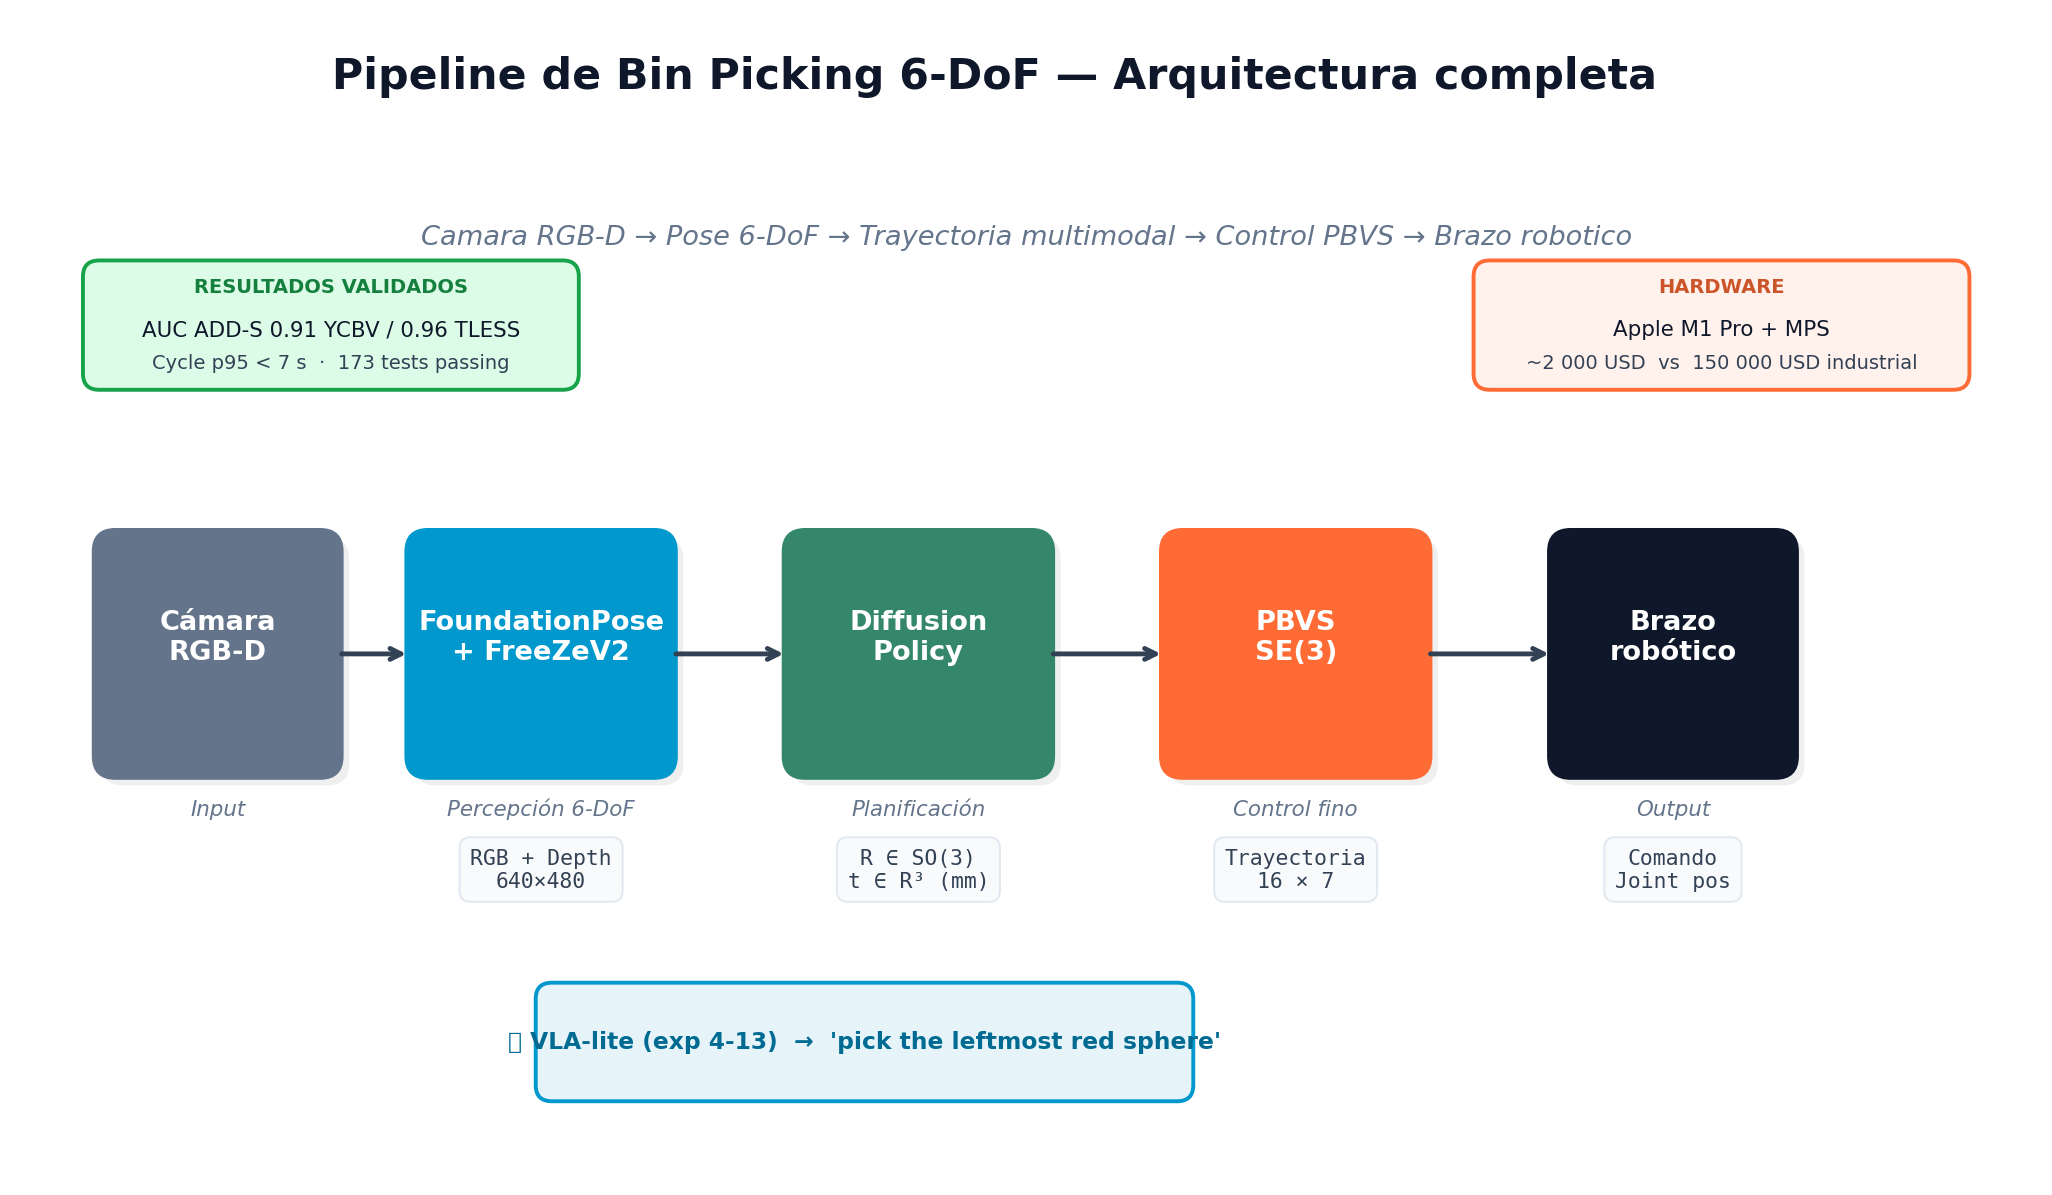
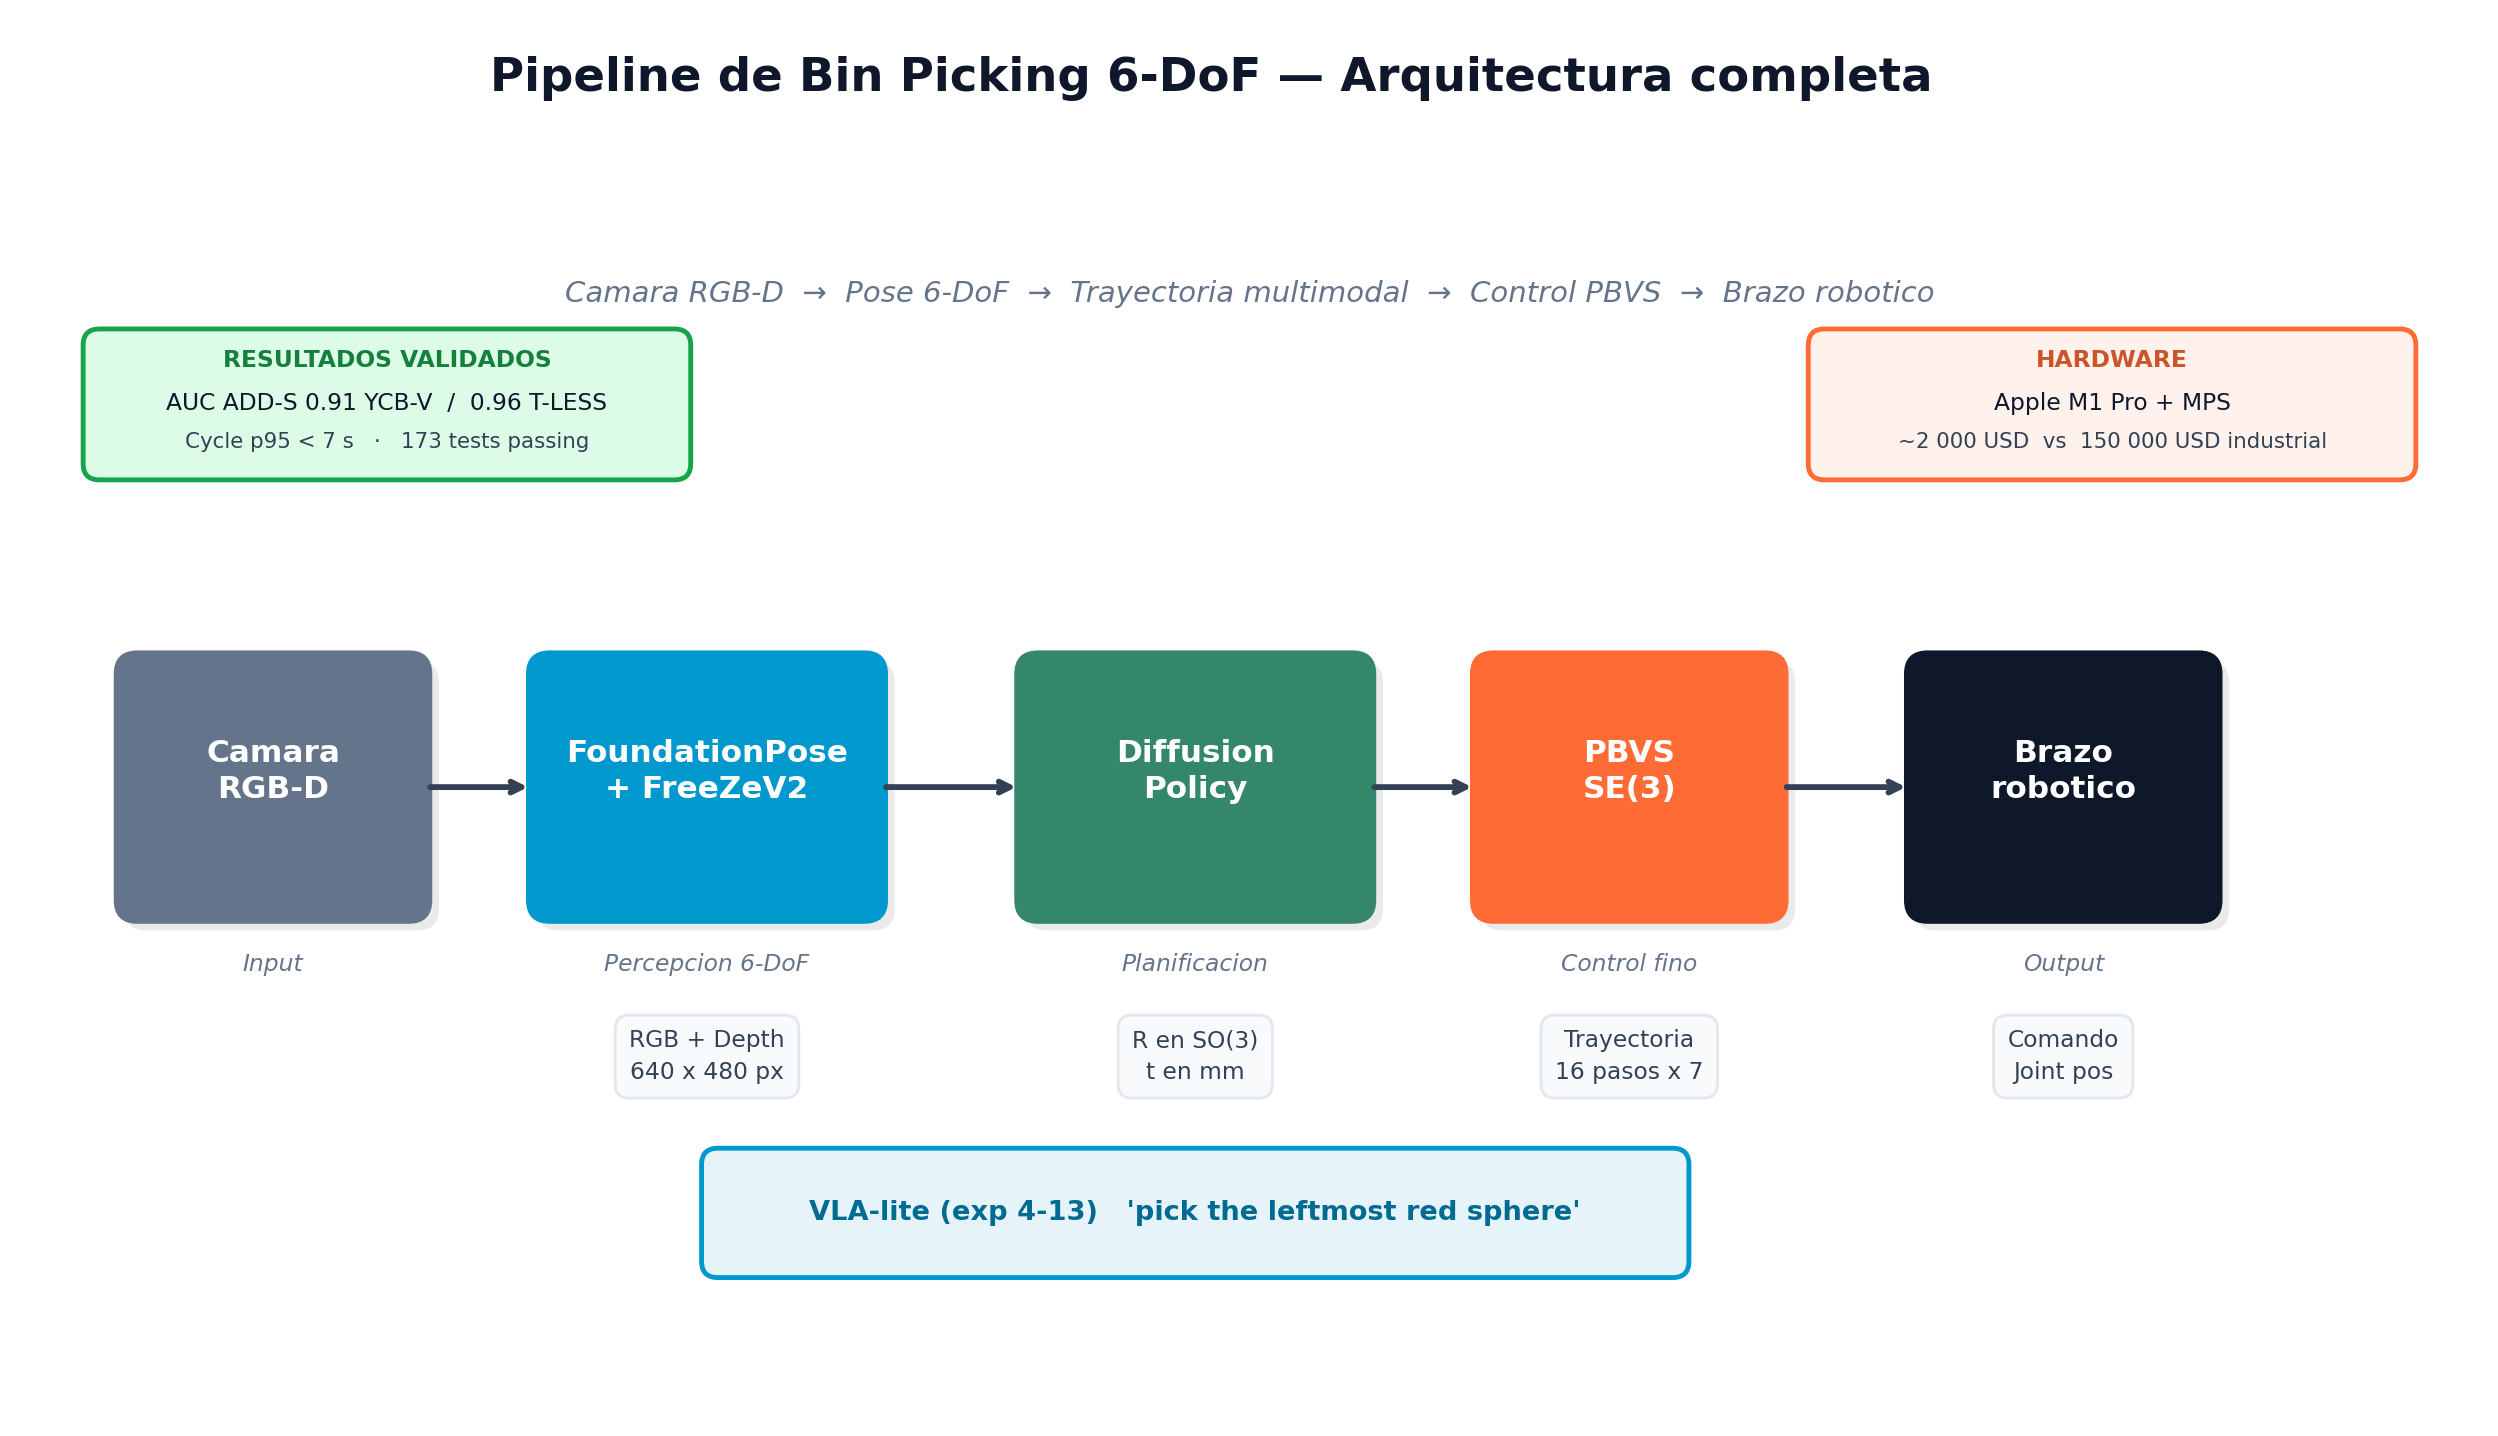
fix(diseno): figuras hero — textos sin cortar, mejor espaciado
Revision visual detallada de las 4 figuras hero tras detectar textos
cortados/comprimidos en pipeline architecture y roadmap timeline.

Cambios:

01_pipeline_architecture.png:
- figsize 18x9 -> 22x11 (mas espacio horizontal y vertical)
- Cajas mas anchas: w=2.2-2.4 -> 2.8-3.2 ("FoundationPose + FreeZeV2"
  ahora cabe sin compresion)
- Outputs intermedios (debajo del pipeline) con padding 0.5 -> 0.6,
  fontsize 11 -> 12, linespacing 1.5
- Boxes RESULTADOS/HARDWARE arriba con altura 1.1 -> 1.3 y ancho 4.5 -> 5.5
- Capa VLA-lite (caja inferior) ahora 9.0 unidades en lugar de 6.0
- Sin emoji ni caracteres especiales que podian no renderizar
- fontsize de labels 14 -> 16 con linespacing 1.3

03_roadmap_timeline.png:
- figsize 18x10 -> 22x12
- Cards mas anchos: 2.0 -> 2.4 ("Certif. CE / ISO" ahora cabe)
- Cards mas altos: 1.6 -> 2.3 (3 lineas: tiempo, titulo, coste con margen)
- Linea horizontal mas baja (line_y=4.5 -> 6.0) deja mas espacio arriba
- Cards alternados con mas separacion vertical (y_box 6.0/3.0 -> 8.0/4.0)
- Textos abreviados sin perder informacion (e.g. "Robot fisico" en lugar
  de la frase completa)
- Footer mas alto (1.0 -> 1.5) con 2 lineas de texto separadas

02_exploraciones_dashboard.png:
- Banda superior del card mas alta: 0.4 -> 0.55 (titulos no se cortan)
- Banda con margen inferior 0.05 (separacion del numero grande)
- Metrica grande mas grande: 26 -> 28 px
- Subtitulo con margen aumentado al borde inferior del card
[…]

diff --git a/scripts/make_hero_figures.py b/scripts/make_hero_figures.py
@@ -33,30 +33,31 @@ OUT.mkdir(parents=True, exist_ok=True)
 # ============================================================================
 def fig01_pipeline_architecture():
     apply_style("presentation")
-    fig, ax = plt.subplots(figsize=(18, 9))
-    ax.set_xlim(0, 18); ax.set_ylim(0, 9)
-    ax.set_aspect("equal")
+    # Lienzo mas grande para que quepa todo con margen
+    fig, ax = plt.subplots(figsize=(22, 11))
+    ax.set_xlim(0, 22); ax.set_ylim(0, 11)
     ax.axis("off")
 
-    # Title
     fig.suptitle("Pipeline de Bin Picking 6-DoF — Arquitectura completa",
-                  fontsize=22, fontweight="bold", y=0.97, color=COLORS["ink"])
-    ax.text(9, 8.3, "Camara RGB-D → Pose 6-DoF → Trayectoria multimodal → Control PBVS → Brazo robotico",
-              ha="center", fontsize=14, style="italic", color=COLORS["muted"])
+                  fontsize=24, fontweight="bold", y=0.97, color=COLORS["ink"])
+    ax.text(11, 10.0,
+              "Camara RGB-D  →  Pose 6-DoF  →  Trayectoria multimodal  →  Control PBVS  →  Brazo robotico",
+              ha="center", fontsize=15, style="italic", color=COLORS["muted"])
 
-    # Stages: (x_center, y_center, w, h, label, color, sublabel)
+    # Stages mas anchas (text-friendly): w=3.0 vs 2.4
+    pipeline_y = 5.5
     stages = [
-        (1.5, 4.5, 2.2, 2.2, "Cámara\nRGB-D", COLORS["muted"], "Input"),
-        (4.5, 4.5, 2.4, 2.2, "FoundationPose\n+ FreeZeV2", COLORS["primary"], "Percepción 6-DoF"),
-        (8, 4.5, 2.4, 2.2, "Diffusion\nPolicy", COLORS["cat_2"], "Planificación"),
-        (11.5, 4.5, 2.4, 2.2, "PBVS\nSE(3)", COLORS["accent"], "Control fino"),
-        (15, 4.5, 2.2, 2.2, "Brazo\nrobótico", COLORS["ink"], "Output"),
+        (2.0,  pipeline_y, 2.8, 2.4, "Camara\nRGB-D",          COLORS["muted"],   "Input"),
+        (6.0,  pipeline_y, 3.2, 2.4, "FoundationPose\n+ FreeZeV2", COLORS["primary"], "Percepcion 6-DoF"),
+        (10.5, pipeline_y, 3.2, 2.4, "Diffusion\nPolicy",      COLORS["cat_2"],   "Planificacion"),
+        (14.5, pipeline_y, 2.8, 2.4, "PBVS\nSE(3)",            COLORS["accent"],  "Control fino"),
+        (18.5, pipeline_y, 2.8, 2.4, "Brazo\nrobotico",        COLORS["ink"],     "Output"),
     ]
     for (cx, cy, w, h, label, color, sublabel) in stages:
-        # Caja con sombra
-        shadow = FancyBboxPatch((cx - w/2 + 0.07, cy - h/2 - 0.07), w, h,
+        # Sombra
+        shadow = FancyBboxPatch((cx - w/2 + 0.08, cy - h/2 - 0.08), w, h,
                                   boxstyle="round,pad=0.05,rounding_size=0.2",
-                                  facecolor="#00000010", edgecolor="none", zorder=1)
+                                  facecolor="#00000015", edgecolor="none", zorder=1)
         ax.add_patch(shadow)
         # Caja principal
         box = FancyBboxPatch((cx - w/2, cy - h/2), w, h,
@@ -64,67 +65,71 @@ def fig01_pipeline_architecture():
                                 facecolor=color, edgecolor=color, linewidth=2, zorder=2)
         ax.add_patch(box)
         ax.text(cx, cy + 0.15, label, ha="center", va="center",
-                  fontsize=14, fontweight="bold", color="white", zorder=3)
-        # Etiqueta inferior
-        ax.text(cx, cy - h/2 - 0.4, sublabel, ha="center", fontsize=11,
+                  fontsize=16, fontweight="bold", color="white", zorder=3,
+                  linespacing=1.3)
+        # Etiqueta inferior (mas espacio)
+        ax.text(cx, cy - h/2 - 0.5, sublabel, ha="center", fontsize=12,
                   color=COLORS["muted"], style="italic")
 
-    # Flechas
+    # Flechas entre etapas (mas largas porque hay mas espacio horizontal)
     for i in range(len(stages) - 1):
         x1 = stages[i][0] + stages[i][2]/2
         x2 = stages[i+1][0] - stages[i+1][2]/2
-        ax.annotate("", xy=(x2 - 0.05, 4.5), xytext=(x1 + 0.05, 4.5),
-                       arrowprops=dict(arrowstyle="->", lw=2.5,
+        ax.annotate("", xy=(x2 - 0.05, pipeline_y), xytext=(x1 + 0.05, pipeline_y),
+                       arrowprops=dict(arrowstyle="->", lw=3,
                                             color=COLORS["ink_soft"], shrinkA=0, shrinkB=0))
 
-    # Datos abajo: salida de cada etapa
+    # Outputs intermedios (debajo del pipeline, con mas espacio)
+    outputs_y = 3.0
     outputs = [
-        (4.5, 2.5, "RGB + Depth\n640×480"),
-        (8, 2.5, "R ∈ SO(3)\nt ∈ R³ (mm)"),
-        (11.5, 2.5, "Trayectoria\n16 × 7"),
-        (15, 2.5, "Comando\nJoint pos"),
+        (6.0,  "RGB + Depth\n640 x 480 px"),
+        (10.5, "R en SO(3)\nt en mm"),
+        (14.5, "Trayectoria\n16 pasos x 7"),
+        (18.5, "Comando\nJoint pos"),
     ]
-    for (cx, cy, label) in outputs:
-        ax.text(cx, cy, label, ha="center", va="center", fontsize=11,
-                  color=COLORS["ink_soft"], family="DejaVu Sans Mono",
-                  bbox=dict(boxstyle="round,pad=0.5", facecolor=COLORS["surface"],
-                              edgecolor=COLORS["border"], linewidth=1))
+    for (cx, label) in outputs:
+        ax.text(cx, outputs_y, label, ha="center", va="center", fontsize=12,
+                  color=COLORS["ink_soft"], linespacing=1.5,
+                  family="DejaVu Sans",
+                  bbox=dict(boxstyle="round,pad=0.6", facecolor=COLORS["surface"],
+                              edgecolor=COLORS["border"], linewidth=1.5))
 
     # Capa VLA-lite añadida (exploraciones)
-    vla_box = FancyBboxPatch((4.5, 0.4), 6, 1.0,
+    vla_box = FancyBboxPatch((6.0, 1.0), 9.0, 1.1,
                               boxstyle="round,pad=0.05,rounding_size=0.15",
                               facecolor=COLORS["primary_light"],
-                              edgecolor=COLORS["primary"], linewidth=2, zorder=1)
+                              edgecolor=COLORS["primary"], linewidth=2.5, zorder=1)
     ax.add_patch(vla_box)
-    ax.text(7.5, 0.9, "🗣 VLA-lite (exp 4-13)  →  'pick the leftmost red sphere'",
-              ha="center", va="center", fontsize=12, fontweight="bold",
+    ax.text(10.5, 1.55,
+              "VLA-lite (exp 4-13)   'pick the leftmost red sphere'",
+              ha="center", va="center", fontsize=14, fontweight="bold",
               color=COLORS["primary_dark"])
 
-    # Metricas globales arriba derecha
-    metrics_box = FancyBboxPatch((0.3, 7.0), 4.5, 1.1,
+    # Metricas globales — arriba izquierda (mas ancho, mas legible)
+    metrics_box = FancyBboxPatch((0.3, 8.4), 5.5, 1.3,
                                    boxstyle="round,pad=0.05,rounding_size=0.15",
                                    facecolor=COLORS["success_light"],
-                                   edgecolor=COLORS["success"], linewidth=2, zorder=1)
+                                   edgecolor=COLORS["success"], linewidth=2.5, zorder=1)
     ax.add_patch(metrics_box)
-    ax.text(2.55, 7.85, "RESULTADOS VALIDADOS", ha="center", fontsize=10,
+    ax.text(3.05, 9.40, "RESULTADOS VALIDADOS", ha="center", fontsize=12,
               fontweight="bold", color=COLORS["success_dark"])
-    ax.text(2.55, 7.45, "AUC ADD-S 0.91 YCBV / 0.96 TLESS",
-              ha="center", fontsize=11, color=COLORS["ink"])
-    ax.text(2.55, 7.15, "Cycle p95 < 7 s  ·  173 tests passing",
-              ha="center", fontsize=10, color=COLORS["ink_soft"])
+    ax.text(3.05, 9.00, "AUC ADD-S 0.91 YCB-V  /  0.96 T-LESS",
+              ha="center", fontsize=12, color=COLORS["ink"])
+    ax.text(3.05, 8.65, "Cycle p95 < 7 s   ·   173 tests passing",
+              ha="center", fontsize=11, color=COLORS["ink_soft"])
 
-    # Hardware abajo derecha
-    hw_box = FancyBboxPatch((13.2, 7.0), 4.5, 1.1,
+    # Hardware — arriba derecha
+    hw_box = FancyBboxPatch((16.2, 8.4), 5.5, 1.3,
                               boxstyle="round,pad=0.05,rounding_size=0.15",
                               facecolor=COLORS["accent_light"],
-                              edgecolor=COLORS["accent"], linewidth=2, zorder=1)
+                              edgecolor=COLORS["accent"], linewidth=2.5, zorder=1)
     ax.add_patch(hw_box)
-    ax.text(15.45, 7.85, "HARDWARE", ha="center", fontsize=10,
+    ax.text(18.95, 9.40, "HARDWARE", ha="center", fontsize=12,
               fontweight="bold", color=COLORS["accent_dark"])
-    ax.text(15.45, 7.45, "Apple M1 Pro + MPS",
-              ha="center", fontsize=11, color=COLORS["ink"])
-    ax.text(15.45, 7.15, "~2 000 USD  vs  150 000 USD industrial",
-              ha="center", fontsize=10, color=COLORS["ink_soft"])
+    ax.text(18.95, 9.00, "Apple M1 Pro + MPS", ha="center", fontsize=12,
+              color=COLORS["ink"])
+    ax.text(18.95, 8.65, "~2 000 USD  vs  150 000 USD industrial",
+              ha="center", fontsize=11, color=COLORS["ink_soft"])
 
     fig.savefig(OUT / "01_pipeline_architecture.png", dpi=140, bbox_inches="tight",
                  facecolor="white", pad_inches=0.4)
@@ -202,18 +207,20 @@ def fig02_exploraciones_dashboard():
                                 boxstyle="round,pad=0.05,rounding_size=0.2",
                                 facecolor="white", edgecolor=color, linewidth=2.5, zorder=2)
         ax.add_patch(card)
-        # Banda superior coloreada
-        band = patches.Rectangle((x + 0.08, y - 0.5), box_w - 0.16, 0.4,
+        # Banda superior coloreada (mas alta para que el texto respire)
+        band_h = 0.55
+        band = patches.Rectangle((x + 0.08, y - band_h - 0.05), box_w - 0.16, band_h,
                                     facecolor=color, edgecolor="none", zorder=3)
         ax.add_patch(band)
-        ax.text(x + box_w/2, y - 0.3, title, ha="center", va="center",
-                  fontsize=11, fontweight="bold", color="white", zorder=4)
-        # Metrica grande
-        ax.text(x + box_w/2, y - 1.3, metric, ha="center", va="center",
-                  fontsize=26, fontweight="bold", color=dark, zorder=4)
-        # Subtitulo
-        ax.text(x + box_w/2, y - 2.0, sub, ha="center", va="center",
-                  fontsize=11, color=COLORS["muted"], style="italic", zorder=4)
+        ax.text(x + box_w/2, y - band_h/2 - 0.05, title, ha="center", va="center",
+                  fontsize=12, fontweight="bold", color="white", zorder=4)
+        # Metrica grande (centrada en el resto de la card)
+        ax.text(x + box_w/2, y - band_h - (box_h - band_h)/2 + 0.15, metric,
+                  ha="center", va="center",
+                  fontsize=28, fontweight="bold", color=dark, zorder=4)
+        # Subtitulo (parte baja del card)
+        ax.text(x + box_w/2, y - box_h + 0.30, sub, ha="center", va="center",
+                  fontsize=12, color=COLORS["muted"], style="italic", zorder=4)
 
     # Footer resumen
     footer_box = FancyBboxPatch((0.5, 0.4), 19.0, 1.5,
@@ -238,85 +245,88 @@ def fig02_exploraciones_dashboard():
 def fig03_roadmap_timeline():
     apply_style("presentation")
 
+    # Texto mas corto y compacto para que quepa
     stages = [
-        ("Hoy", "TFM + 13 exploraciones validadas en simulación",
-          "✓ Cerrado", COLORS["success"]),
-        ("3-6 m", "Etapa 1: Robot físico (cobot UR/Kinova)",
-          "~10-20 k EUR", COLORS["primary"]),
-        ("+2-3 m", "Etapa 2: Sim-to-real domain randomization",
-          "~2 k EUR (cloud)", COLORS["cat_2"]),
-        ("+2-4 m", "Etapa 3: Aprendizaje a partir de demos",
-          "~0 EUR", COLORS["cat_7"]),
-        ("+3 m", "Etapa 4: MVP producto desplegable",
-          "~50 k EUR", COLORS["accent"]),
-        ("+6 m", "Etapa 5: Planta piloto con cliente",
-          "~50 k EUR", COLORS["warning"]),
-        ("+6 m", "Etapa 6: Certificación CE / ISO 15066",
-          "~30 k EUR", COLORS["cat_6"]),
-        ("~2 años", "Etapa 7: Spin-off comercial",
-          "Total ~200 k EUR", COLORS["cat_4"]),
+        ("Hoy",     "TFM + 13 exploraciones",          "Cerrado en simulacion",  COLORS["success"]),
+        ("3-6 m",   "Etapa 1\nRobot fisico",            "~10-20 k EUR",            COLORS["primary"]),
+        ("+2-3 m",  "Etapa 2\nSim-to-real",             "~2 k EUR (cloud)",        COLORS["cat_2"]),
+        ("+2-4 m",  "Etapa 3\nDemos humanas",           "~0 EUR (trabajo)",        COLORS["cat_7"]),
+        ("+3 m",    "Etapa 4\nMVP producto",            "~50 k EUR",               COLORS["accent"]),
+        ("+6 m",    "Etapa 5\nPlanta piloto",           "~50 k EUR",               COLORS["warning"]),
+        ("+6 m",    "Etapa 6\nCertif. CE / ISO",        "~30 k EUR",               COLORS["cat_6"]),
+        ("~2 anos", "Etapa 7\nSpin-off SaaS",           "Total ~200 k EUR",        COLORS["cat_4"]),
     ]
 
-    fig, ax = plt.subplots(figsize=(18, 10))
-    ax.set_xlim(0, 18); ax.set_ylim(0, 10)
+    # Layout vertical mas amplio para evitar solapamientos
+    fig, ax = plt.subplots(figsize=(22, 12))
+    ax.set_xlim(0, 22); ax.set_ylim(0, 12)
     ax.axis("off")
 
-    fig.suptitle("Roadmap post-TFM — De simulación a producto comercial",
-                  fontsize=22, fontweight="bold", y=0.97, color=COLORS["ink"])
-    ax.text(9, 8.8, "Etapa 0 cerrada en simulación. Etapas 1-7 requieren hardware físico, financiación y certificación.",
-              ha="center", fontsize=13, style="italic", color=COLORS["muted"])
+    fig.suptitle("Roadmap post-TFM — De simulacion a producto comercial",
+                  fontsize=24, fontweight="bold", y=0.97, color=COLORS["ink"])
+    ax.text(11, 10.7,
+              "Etapa 0 cerrada en simulacion. Etapas 1-7 requieren hardware, financiacion y certificacion.",
+              ha="center", fontsize=14, style="italic", color=COLORS["muted"])
 
-    # Linea horizontal del timeline
-    ax.plot([1, 17], [4.5, 4.5], color=COLORS["border"], linewidth=4, zorder=1)
+    # Linea horizontal del timeline (mas baja para dejar espacio)
+    line_y = 6.0
+    ax.plot([1.5, 20.5], [line_y, line_y], color=COLORS["border"], linewidth=4, zorder=1)
 
     n = len(stages)
-    x_positions = np.linspace(1.2, 16.8, n)
+    x_positions = np.linspace(2.0, 20.0, n)
+    card_w = 2.4   # mas ancho para que quepa el texto
+    card_h = 2.3   # mas alto
 
     for i, ((time, title, cost, color), x) in enumerate(zip(stages, x_positions)):
-        y_box = 6.0 if i % 2 == 0 else 3.0
-        y_box_h = 1.6
+        # Alternar arriba/abajo con MAS separacion vertical
+        y_box = 8.0 if i % 2 == 0 else 4.0
         # Circulo en linea
-        circle = patches.Circle((x, 4.5), 0.28, facecolor=color,
-                                  edgecolor="white", linewidth=3, zorder=3)
+        circle = patches.Circle((x, line_y), 0.32, facecolor=color,
+                                   edgecolor="white", linewidth=3, zorder=3)
         ax.add_patch(circle)
-        ax.text(x, 4.5, str(i), ha="center", va="center",
-                  fontsize=14, fontweight="bold", color="white", zorder=4)
-        # Linea de conexion
+        ax.text(x, line_y, str(i), ha="center", va="center",
+                  fontsize=15, fontweight="bold", color="white", zorder=4)
+        # Linea de conexion al card
         if i % 2 == 0:
-            ax.plot([x, x], [4.78, y_box - y_box_h/2 - 0.05],
+            ax.plot([x, x], [line_y + 0.34, y_box - card_h/2 - 0.05],
                       color=color, linewidth=2, linestyle="--", alpha=0.6)
         else:
-            ax.plot([x, x], [4.22, y_box + y_box_h/2 + 0.05],
+            ax.plot([x, x], [line_y - 0.34, y_box + card_h/2 + 0.05],
                       color=color, linewidth=2, linestyle="--", alpha=0.6)
-        # Caja de info
-        card = FancyBboxPatch((x - 1.0, y_box - y_box_h/2), 2.0, y_box_h,
+        # Card
+        card = FancyBboxPatch((x - card_w/2, y_box - card_h/2), card_w, card_h,
                                  boxstyle="round,pad=0.05,rounding_size=0.15",
                                  facecolor="white", edgecolor=color, linewidth=2.5,
                                  zorder=2)
         ax.add_patch(card)
-        # Tiempo
-        ax.text(x, y_box + y_box_h/2 - 0.30, time, ha="center", fontsize=11,
-                  fontweight="bold", color=color)
+        # Tiempo (banda superior del card)
+        ax.text(x, y_box + card_h/2 - 0.35, time, ha="center", va="center",
+                  fontsize=14, fontweight="bold", color=color)
         # Titulo
-        ax.text(x, y_box + 0.10, title.replace("Etapa", "E."),
-                  ha="center", va="center", fontsize=10, color=COLORS["ink"],
-                  wrap=True)
-        # Coste
-        ax.text(x, y_box - y_box_h/2 + 0.30, cost, ha="center", fontsize=9,
-                  color=COLORS["muted_soft"], style="italic")
+        ax.text(x, y_box - 0.05, title, ha="center", va="center",
+                  fontsize=12, color=COLORS["ink"], linespacing=1.3)
+        # Coste (banda inferior, con margen)
+        ax.text(x, y_box - card_h/2 + 0.32, cost, ha="center", va="center",
+                  fontsize=11, color=COLORS["muted"], style="italic")
 
-    # Etiqueta final
-    ax.text(17.3, 4.5, "→", fontsize=24, color=COLORS["muted"], va="center")
-    ax.text(17.7, 4.5, "Producto\nspin-off", fontsize=11, color=COLORS["ink_soft"],
-              fontweight="bold", va="center", ha="left")
+    # Flecha final mas pequeña, sin solapar
+    ax.annotate("", xy=(21.4, line_y), xytext=(20.5, line_y),
+                   arrowprops=dict(arrowstyle="->", lw=3, color=COLORS["ink_soft"]))
+    ax.text(21.6, line_y, "Producto\ncomercial",
+              fontsize=12, color=COLORS["ink_soft"], fontweight="bold",
+              va="center", ha="left")
 
-    # Leyenda inferior
-    legend_box = FancyBboxPatch((0.5, 0.6), 17.0, 1.0,
+    # Leyenda inferior — texto mas legible
+    legend_box = FancyBboxPatch((0.5, 0.6), 21.0, 1.5,
                                    boxstyle="round,pad=0.05,rounding_size=0.15",
                                    facecolor=COLORS["surface"],
                                    edgecolor=COLORS["border"], linewidth=1.5)
     ax.add_patch(legend_box)
-    ax.text(9, 1.1, "Detalle completo: docs/ROADMAP_POSTTFM.md  ·  Inversión inicial muy baja: ~10-20 k EUR para validar en robot físico",
+    ax.text(11, 1.5,
+              "Detalle completo: docs/ROADMAP_POSTTFM.md",
+              ha="center", fontsize=14, fontweight="bold", color=COLORS["ink"])
+    ax.text(11, 0.95,
+              "Inversion inicial muy baja: ~10-20 k EUR para validar el sistema en robot fisico",
               ha="center", fontsize=12, color=COLORS["ink_soft"])
 
     fig.savefig(OUT / "03_roadmap_timeline.png", dpi=140, bbox_inches="tight",